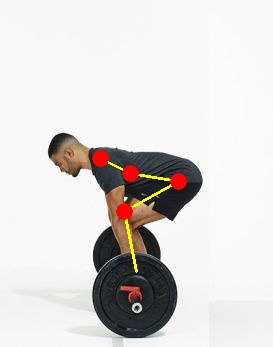
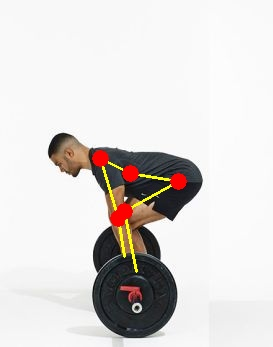
new joint (arm)

Changed region(s): [[0.3516, 0.4611, 0.4689, 0.7493]]

diff --git a/OpenPoseImage.py b/OpenPoseImage.py
@@ -18,9 +18,10 @@ elif MODE is "MPI" :
     nPoints = 15
     # POSE_PAIRS = [[0,1], [1,2], [2,3], [3,4], [1,5], [5,6], [6,7], [1,14], [14,8], [8,9], [9,10], [14,11], [11,12], [12,13] ]
     POSE_PAIRS = [[0,1], [1,2], [2,3], [3,4], [1,5], [5,6], [6,7], [1,14], [14,8], [8,9], [9,10], [14,11], [11,12], [12,13] ]
-    right_deadlift_pose = [ [2,14], [14, 8],  [11,9], [9,10]]
-    left_deadlift_pose = [ [5,14], [14,11], [11,12], [12,13]]
-frame = cv2.imread("deadlift_2.jpg")
+    right_deadlift_pose = [[2,3],[3,4], [2,14], [14, 8],  [11,9], [9,10]]
+    left_deadlift_pose = [[5, 6], [6, 7], [5, 14], [14, 11], [11, 12], [12, 13]]
+
+frame = cv2.imread("deadlift_1.jpg")
 frameCopy = np.copy(frame)
 frameWidth = frame.shape[1]
 frameHeight = frame.shape[0]
